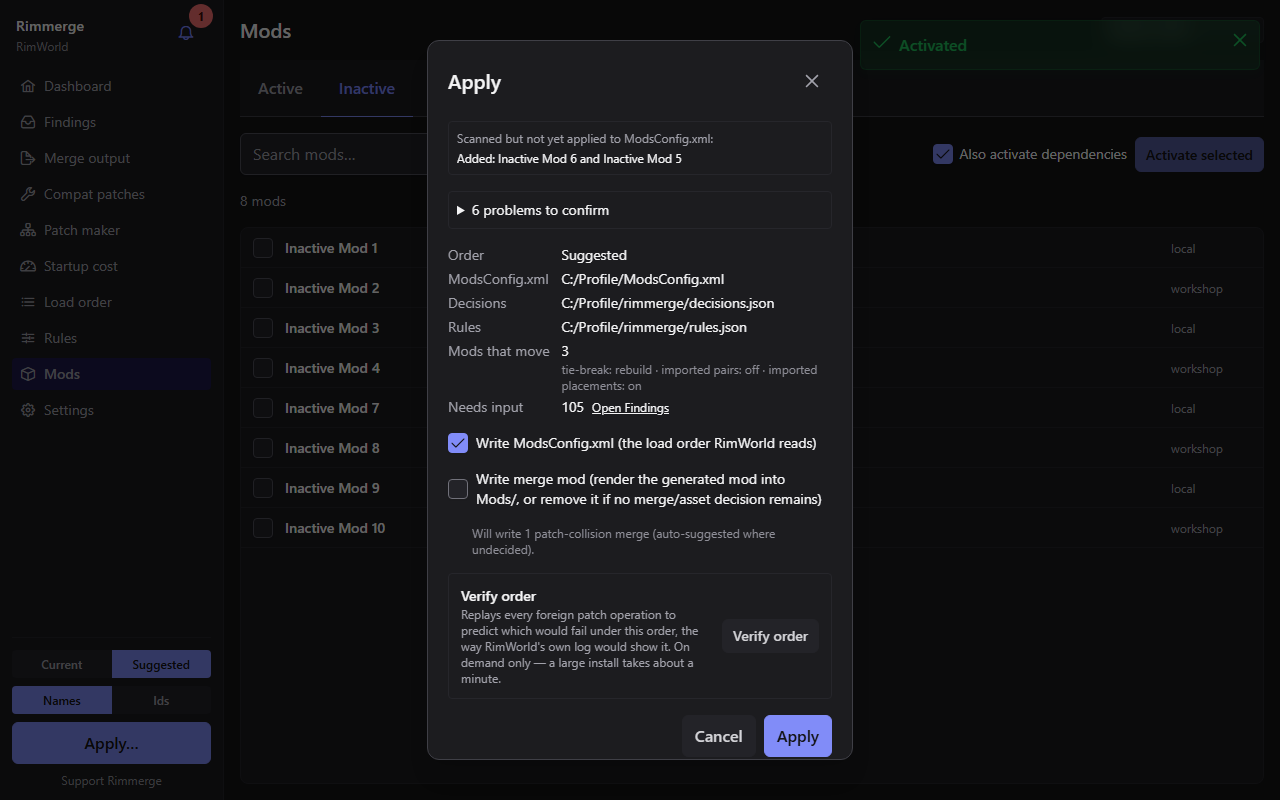
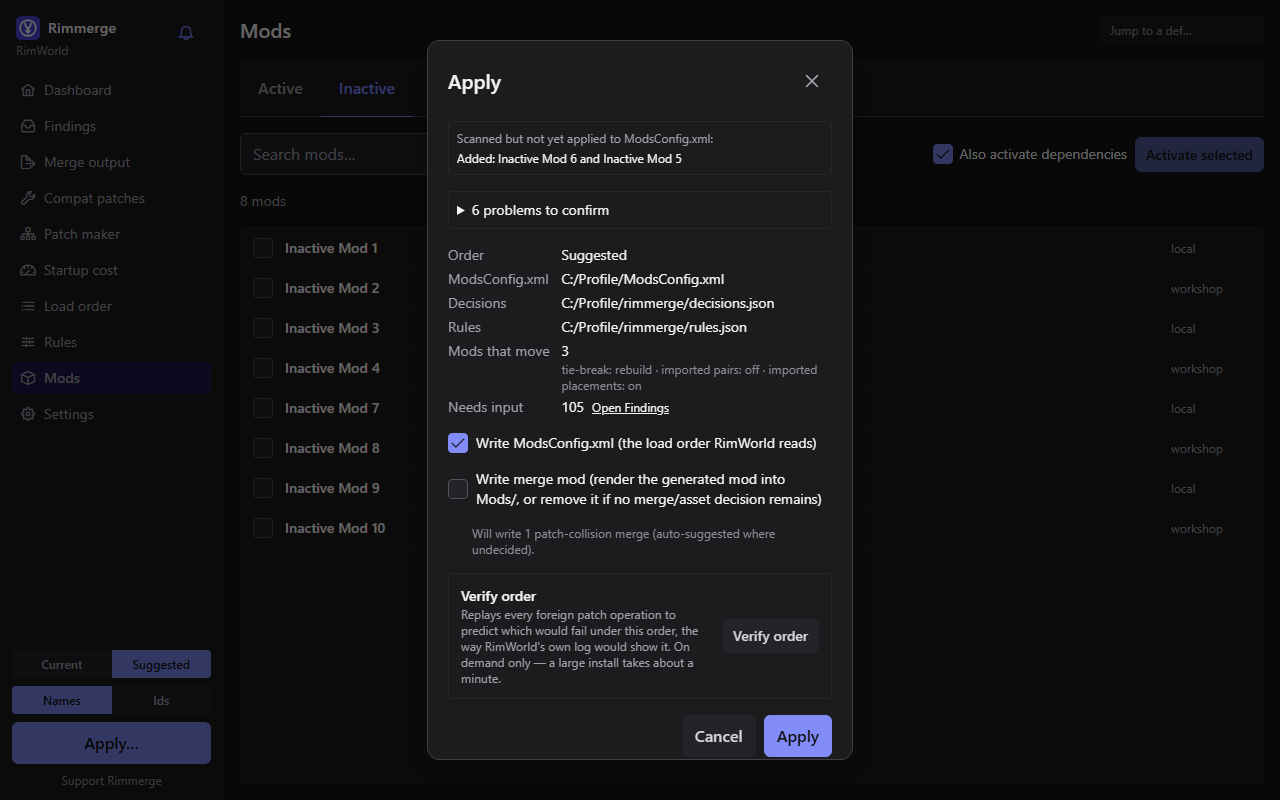
docs: regenerate the docs screenshots with a reproducible capture spec
Adds e2e/screenshots/docs.spec.ts, which captures every image under
docs/screenshots from the mock scenario, and a shared settle helper
that the locale tour now uses too. The images are regenerated from it,
and the README hero caption now mentions the imported recommended
rules.

The scenario's load_project and get_dashboard mocks report the scanned
active mod count rather than a fixed constant, so the captured counts
match the list shown.

diff --git a/apps/desktop/e2e/screenshots/docs.spec.ts b/apps/desktop/e2e/screenshots/docs.spec.ts
@@ -1,0 +1,194 @@
+import path from "node:path";
+
+import { expect, type Page, test } from "@playwright/test";
+import { loadScenario } from "../specs/support";
+import { waitForQuietMain } from "./settle";
+
+/**
+ * Regenerates every screenshot the public docs embed, under
+ * `docs/screenshots/` (see that folder's README): the README's dashboard
+ * hero (light) and the Mods page walkthrough in `docs/desktop.md` (dark).
+ * Each image is driven through the mock-IPC scenario into its state, then
+ * settled (toasts gone, focus and hover cleared, animations finished) so a
+ * second run writes byte-identical files. Run with
+ * `RIMMERGE_DOCS_SCREENSHOTS=1 bun run e2e:screenshots -- docs.spec.ts`.
+ */
+
+const IS_ENABLED = process.env["RIMMERGE_DOCS_SCREENSHOTS"] === "1";
+const SCREENSHOTS_DIR = path.resolve(import.meta.dirname, "../../../../docs/screenshots");
+const MODS_PAGE_DIR = path.join(SCREENSHOTS_DIR, "mods-page");
+
+/**
+ * A dialog opens with keyboard focus on its close button, and blurring it did
+ * not remove the ring, so the focus outline is hidden outright instead.
+ */
+const NO_FOCUS_RING_STYLE = "*, *::before, *::after { outline: none !important; }";
+
+/** Loads the scenario in the given theme, hides focus rings, and answers the first-run notice. */
+async function startScenario(page: Page, colorScheme: "light" | "dark"): Promise<void> {
+  await page.emulateMedia({ colorScheme });
+  await loadScenario(page);
+  await page.addStyleTag({ content: NO_FOCUS_RING_STYLE });
+  await page.getByTestId("welcome-card-keep").click();
+  await expect(page.getByTestId("welcome-card")).toBeHidden();
+}
+
+/** Dismisses every toast and waits for its leave transition, so none is left in the frame. */
+async function clearToasts(page: Page): Promise<void> {
+  // Retried as a unit so a toast that arrives late is closed too.
+  await expect(async () => {
+    for (const closeButton of await page.locator(".p-toast-close-button").all()) {
+      // A dialog's modal mask sits over the toast layer, so click through the DOM, not the pointer.
+      await closeButton.dispatchEvent("click");
+    }
+    await expect(page.locator(".p-toast-message")).toHaveCount(0, { timeout: 1_000 });
+  }).toPass({ timeout: 5_000 });
+}
+
+/** Moves the pointer to a corner of the shell with nothing interactive under it. */
+async function parkPointer(page: Page): Promise<void> {
+  const viewport = page.viewportSize();
+  if (viewport === null) {
+    throw new Error("docs screenshots need a fixed viewport");
+  }
+  await page.mouse.move(viewport.width - 1, viewport.height - 1);
+}
+
+/** Drops keyboard focus and hover, finishes animations, and waits for the page to stop changing. */
+async function settle(page: Page): Promise<void> {
+  await clearToasts(page);
+  await page.evaluate(() => {
+    if (document.activeElement instanceof HTMLElement) {
+      document.activeElement.blur();
+    }
+  });
+  await parkPointer(page);
+  await waitForQuietMain(page);
+  await page.evaluate(async () => {
+    // Dialogs and their masks are portaled outside `main`, and a transition can start a frame
+    // after the last DOM change: wait until two frames in a row see nothing animating.
+    const nextFrame = (): Promise<void> =>
+      new Promise((resolve) => requestAnimationFrame(() => resolve()));
+    let calmFrames = 0;
+    while (calmFrames < 2) {
+      // Only a running, finite animation is waited for: a finished one lingers with its fill,
+      // a paused or idle one never finishes, and an endless one (a spinner) belongs in no doc
+      // image (it would show up when the PNGs are reviewed).
+      const running = document
+        .getAnimations()
+        .filter(
+          (animation) =>
+            animation.playState === "running" &&
+            animation.effect?.getComputedTiming().iterations !== Number.POSITIVE_INFINITY,
+        );
+      if (running.length === 0) {
+        calmFrames += 1;
+      } else {
+        calmFrames = 0;
+        await Promise.allSettled(running.map((animation) => animation.finished));
+      }
+      await nextFrame();
+    }
+  });
+}
+
+async function capture(page: Page, filePath: string): Promise<void> {
+  await settle(page);
+  // Playwright creates the file's parent directories.
+  await page.screenshot({ path: filePath, animations: "disabled" });
+}
+
+async function selectModRow(page: Page, modId: string): Promise<void> {
+  await page.getByTestId(`mod-row-select-${modId}`).locator('input[type="checkbox"]').check();
+}
+
+async function openInactiveTab(page: Page): Promise<void> {
+  await page.getByTestId("nav-mods").click();
+  await page.getByTestId("mods-tab-inactive").click();
+  await expect(page.getByTestId("mod-row-select-mod.905")).toBeVisible();
+}
+
+/** Activates Inactive Mod 5 with its dependency (Inactive Mod 6), leaving the active set stale. */
+async function activateWithDependency(page: Page): Promise<void> {
+  await selectModRow(page, "mod.905");
+  await page.getByTestId("activate-with-dependencies-checkbox").locator("input").check();
+  await page.getByTestId("activate-selected-button").click();
+  await page.getByTestId("activate-confirm-submit").click();
+  await expect(page.getByTestId("pending-changes-banner")).toBeVisible();
+}
+
+test.describe("docs screenshots", () => {
+  test.skip(!IS_ENABLED, "set RIMMERGE_DOCS_SCREENSHOTS=1 to regenerate the docs screenshots");
+
+  test("dashboard hero: rules imported, Suggested selected, Apply is the current step", async ({
+    page,
+  }) => {
+    await startScenario(page, "light");
+
+    await page.getByTestId("guide-rules-button").click();
+    await expect(page.getByTestId("guide-step-rules")).toHaveAttribute("data-status", "done");
+    await expect(page.getByTestId("guide-step-apply")).toHaveAttribute("data-status", "current");
+    await expect(page.getByTestId("order-source-suggested")).toHaveAttribute(
+      "aria-checked",
+      "true",
+    );
+
+    await capture(page, path.join(SCREENSHOTS_DIR, "dashboard-suggested.png"));
+  });
+
+  test("mods page: select, activate, pending banners, deactivate", async ({ page }) => {
+    await startScenario(page, "dark");
+    await page.getByTestId("nav-mods").click();
+    await expect(page.getByTestId("mod-table")).toBeVisible();
+    await capture(page, path.join(MODS_PAGE_DIR, "active-tab.png"));
+
+    await openInactiveTab(page);
+    await selectModRow(page, "mod.902");
+    await selectModRow(page, "mod.905");
+    await capture(page, path.join(MODS_PAGE_DIR, "inactive-tab-selection.png"));
+
+    await page.getByTestId("activate-with-dependencies-checkbox").locator("input").check();
+    await page.getByTestId("activate-selected-button").click();
+    await expect(page.getByTestId("activate-confirm-dialog")).toBeVisible();
+    await capture(page, path.join(MODS_PAGE_DIR, "activate-dialog.png"));
+
+    await page.getByTestId("activate-confirm-submit").click();
+    await expect(page.getByTestId("pending-changes-banner")).toBeVisible();
+    await capture(page, path.join(MODS_PAGE_DIR, "pending-changes-banner.png"));
+
+    // Rescan folds the activations in; deactivating one of them afterwards
+    // stacks a second kind of pending change into the same banner.
+    await page.getByTestId("pending-changes-rescan-button").click();
+    await expect(page.getByTestId("pending-changes-banner")).toBeHidden();
+    await page.getByTestId("mods-tab-active").click();
+    await page.getByTestId("mods-search").fill("mod.90");
+    await selectModRow(page, "mod.906");
+    await page.getByTestId("deactivate-selected-button").click();
+    await expect(page.getByTestId("deactivate-plan-dependents")).toBeVisible();
+    await capture(page, path.join(MODS_PAGE_DIR, "deactivate-dialog.png"));
+
+    await page.getByTestId("deactivate-confirm-submit").click();
+    await expect(page.getByTestId("pending-changes-unscanned-text")).toBeVisible();
+    await expect(page.getByTestId("pending-changes-unapplied-text")).toBeVisible();
+    await capture(page, path.join(MODS_PAGE_DIR, "pending-changes-banner-two-lines.png"));
+  });
+
+  test("mods page: the Apply dialog before and after a rescan", async ({ page }) => {
+    await startScenario(page, "dark");
+    await openInactiveTab(page);
+    await activateWithDependency(page);
+
+    await page.getByTestId("shell-apply-button").click();
+    await expect(page.getByTestId("apply-dialog-stale-active-set")).toBeVisible();
+    await capture(page, path.join(MODS_PAGE_DIR, "apply-dialog-stale-warning.png"));
+
+    await page.getByTestId("apply-dialog-rescan-button").click();
+    await expect(page.getByTestId("apply-dialog-stale-active-set")).toBeHidden();
+    await expect(page.getByTestId("apply-dialog-unapplied-active-changes")).toBeVisible();
+    await capture(page, path.join(MODS_PAGE_DIR, "apply-dialog-after-rescan.png"));
+
+    await page.keyboard.press("Escape");
+    await expect(page.getByTestId("apply-dialog")).toBeHidden();
+    await capture(page, path.join(MODS_PAGE_DIR, "mods-page-after-rescan.png"));
+  });
+});

diff --git a/apps/desktop/e2e/screenshots/locale-tour.spec.ts b/apps/desktop/e2e/screenshots/locale-tour.spec.ts
@@ -6,6 +6,7 @@ import { expect, type Page, test } from "@playwright/test";
 import type {} from "../../src/e2e-mock-bootstrap";
 import { LOCALE_OPTIONS, type LocaleOption } from "../../src/i18n/locales";
 import { loadScenario } from "../specs/support";
+import { waitForQuietMain } from "./settle";
 
 /**
  * The per-locale screenshot and overflow pass (see `playwright.config.ts`
@@ -44,9 +45,6 @@ const ROUTES = [
   "nav-mods",
   "nav-settings",
 ] as const;
-
-/** How long `main` must stay untouched before a route counts as settled. */
-const QUIET_MS = 250;
 
 const COLOR_SCHEMES = ["light", "dark"] as const;
 
@@ -174,39 +172,6 @@ async function visitRoute(page: Page, navTestId: string): Promise<void> {
   await expect(navItem).toHaveAttribute("aria-current", "page");
   await expect(page.locator("main")).not.toBeEmpty();
   await waitForQuietMain(page);
-}
-
-/**
- * Resolves once `main` has stopped changing (no DOM mutation for a short
- * quiet window) and the fonts are ready, i.e. the route's lazily loaded
- * content and its queries have settled. The quiet window is a debounce on a
- * condition, not a fixed sleep: it restarts on every mutation.
- */
-async function waitForQuietMain(page: Page): Promise<void> {
-  await page.evaluate(async (quietMs) => {
-    await document.fonts.ready;
-    const main = document.querySelector("main");
-    if (main === null) {
-      return;
-    }
-    await new Promise<void>((resolve) => {
-      let timer = window.setTimeout(done, quietMs);
-      const observer = new MutationObserver(() => {
-        window.clearTimeout(timer);
-        timer = window.setTimeout(done, quietMs);
-      });
-      function done(): void {
-        observer.disconnect();
-        resolve();
-      }
-      observer.observe(main, {
-        subtree: true,
-        childList: true,
-        attributes: true,
-        characterData: true,
-      });
-    });
-  }, QUIET_MS);
 }
 
 /** The Apply dialog is the densest layout in the app; photographed when the scenario offers it. */

diff --git a/apps/desktop/e2e/screenshots/settle.ts b/apps/desktop/e2e/screenshots/settle.ts
@@ -1,0 +1,37 @@
+import type { Page } from "@playwright/test";
+
+/** How long `main` must stay untouched before a route counts as settled. */
+const QUIET_MS = 250;
+
+/**
+ * Resolves once `main` has stopped changing (no DOM mutation for a short
+ * quiet window) and the fonts are ready, i.e. the route's lazily loaded
+ * content and its queries have settled. The quiet window is a debounce on a
+ * condition, not a fixed sleep: it restarts on every mutation.
+ */
+export async function waitForQuietMain(page: Page): Promise<void> {
+  await page.evaluate(async (quietMs) => {
+    await document.fonts.ready;
+    const main = document.querySelector("main");
+    if (main === null) {
+      return;
+    }
+    await new Promise<void>((resolve) => {
+      let timer = window.setTimeout(done, quietMs);
+      const observer = new MutationObserver(() => {
+        window.clearTimeout(timer);
+        timer = window.setTimeout(done, quietMs);
+      });
+      function done(): void {
+        observer.disconnect();
+        resolve();
+      }
+      observer.observe(main, {
+        subtree: true,
+        childList: true,
+        attributes: true,
+        characterData: true,
+      });
+    });
+  }, QUIET_MS);
+}

diff --git a/apps/desktop/e2e/fixtures/scenario.ts b/apps/desktop/e2e/fixtures/scenario.ts
@@ -5677,7 +5677,7 @@ export function installScenario(): void {
       // the suggested order and says so in its summary.
       selected = "suggested";
       return {
-        modCount: MOD_COUNT,
+        modCount: scannedActiveModList().length,
         gameVersion: "1.6.4871",
         elapsedMs: 900,
         warnings: [],
@@ -5719,7 +5719,7 @@ export function installScenario(): void {
       }
       const currentStats = stats();
       return {
-        modCount: mods.length,
+        modCount: scannedActiveModList().length,
         edgesByStrength: { hard: 40, declared: 60, soft: 12, awareness: 8 },
         edgesViolatedBySource: {
           assemblyRef: 0,

diff --git a/apps/desktop/e2e/screenshots/playwright.config.ts b/apps/desktop/e2e/screenshots/playwright.config.ts
@@ -5,6 +5,9 @@ import { defineConfig } from "@playwright/test";
 // of `bun run e2e` (its `testDir` is `./specs`) and not a gate: run it
 // by hand, after a translation round, with
 // `RIMMERGE_SCREENSHOT_DIR=<scratch dir> bun run e2e:screenshots`.
+// The same config also runs `docs.spec.ts`, which regenerates the docs'
+// screenshots under `docs/screenshots/` and runs only with
+// `RIMMERGE_DOCS_SCREENSHOTS=1`; each spec skips without its own variable.
 // Same mock-IPC tier and same dedicated port (5183, `--strictPort`) as
 // `e2e/playwright.config.ts`, so never run the two at once.
 export default defineConfig({

diff --git a/docs/screenshots/README.md b/docs/screenshots/README.md
@@ -1,12 +1,34 @@
 # Screenshots
 
-`dashboard-suggested.png` is a one-off capture of the desktop app's
-mock-tier dashboard (the e2e scenario's invented mods) at 1280x800, light
-theme, with Suggested selected and the first-run network notice dismissed.
-It is not regenerated by any script; redo it by hand if the dashboard
-layout changes.
+`dashboard-suggested.png` shows the desktop app's mock-tier dashboard (the
+e2e scenario's invented mods) at 1280x800, light theme, with the first-run
+notice dismissed, the recommended rules imported (step 1 done), Suggested
+selected and Apply as the current step.
 
 The `mods-page/` images show the Mods page's activate/deactivate and
 rescan flows, including the Apply dialog, as embedded in
 [`docs/desktop.md`](../desktop.md). They are mock-tier captures at the
 same size, dark theme.
+
+Every image here is generated by
+`apps/desktop/e2e/screenshots/docs.spec.ts`, which drives the mock-IPC
+scenario (`apps/desktop/e2e/fixtures/scenario.ts`) into each state. From
+`apps/desktop`:
+
+```sh
+RIMMERGE_DOCS_SCREENSHOTS=1 bun run e2e:screenshots -- docs.spec.ts
+```
+
+In PowerShell, set the variable for the run and clear it afterwards, so a
+later locale-tour run in the same window does not regenerate the docs
+images too:
+
+```powershell
+$env:RIMMERGE_DOCS_SCREENSHOTS = "1"; bun run e2e:screenshots -- docs.spec.ts; Remove-Item Env:RIMMERGE_DOCS_SCREENSHOTS
+```
+
+The spec is skipped without that variable and is not part of `bun run e2e`.
+It uses the same dedicated port (5183) as `bun run e2e` and the locale
+tour, so never run it at the same time as either. Two runs on the same
+machine write identical files (font rendering differs between machines);
+commit the PNGs it changes along with the UI change that caused them.

diff --git a/README.md b/README.md
@@ -19,7 +19,7 @@ shells over the same engine.
 
 ![Dashboard with the Suggested order selected: the Get started steps, and tiles for mods that move and findings needing input in each order](docs/screenshots/dashboard-suggested.png)
 
-*The dashboard on a synthetic mod list: Suggested selected, Apply is the current step, and the tiles compare it with Current.*
+*The dashboard on a synthetic mod list: the recommended rules imported, Suggested selected, Apply is the current step, and the tiles compare it with Current.*
 
 ![Mods page: selecting inactive mods to activate](docs/screenshots/mods-page/inactive-tab-selection.png)
 
